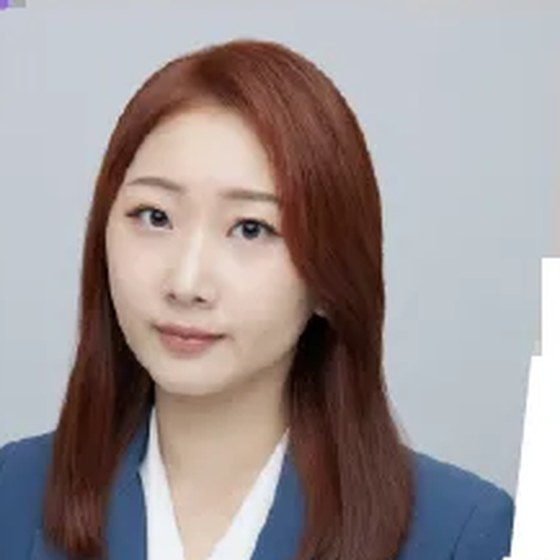
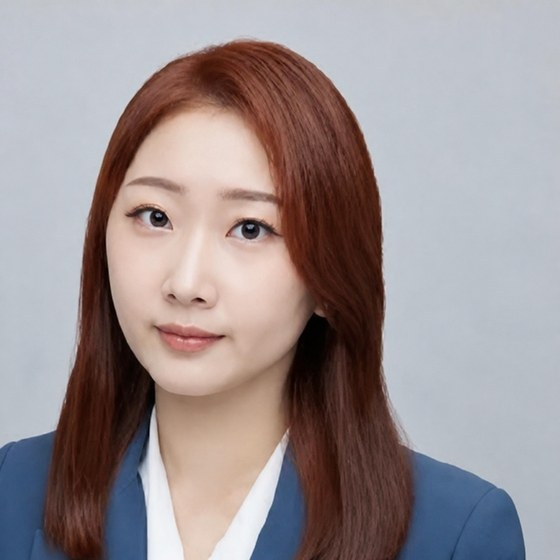
更新六位師資的形象照（棚拍新版）
王志均、郭莉芳、不落客、傅儀文、馮馮、齊克用。
來源檔名已標明對應人物，逐張與現行照片比對確認為同一人後才替換。

一併把散在 img/ 根目錄的 leefang / chike 收進 img/faculty/，
六張路徑統一並加上 ?v=3 讓瀏覽器重抓（同路徑覆蓋會吃到舊快取）。
原始 PNG 約 2MB，統一裁成 560×560 置中方形（略偏上避免切到頭）、
輸出 JPG 品質 88，與其他師資圖一致。

diff --git a/index.html b/index.html
@@ -347,7 +347,7 @@
                 <span class="role">夏綠蒂聊投資 創辦人・雲投資 共同創辦人</span>
               </div>
               <div class="member">
-                <div class="ph" style="background-image:url('img/chike.jpeg?v=2')"></div>
+                <div class="ph" style="background-image:url('img/faculty/chike.jpg?v=3')"></div>
                 <b>齊克用</b>
                 <span class="tags">股票｜期貨｜基金｜金融操作</span>
                 <span class="role">金融研訓院菁英講師・證基會專任講師</span>
@@ -359,31 +359,31 @@
                 <span class="role">《Money 錢》雜誌封面故事・個人品牌 Andyworld</span>
               </div>
               <div class="member">
-                <div class="ph" style="background-image:url('img/faculty/fuyiwen.jpg')"></div>
+                <div class="ph" style="background-image:url('img/faculty/fuyiwen.jpg?v=3')"></div>
                 <b>傅儀文</b>
                 <span class="tags">金融市場解讀｜產業趨勢研究</span>
                 <span class="role">非凡電視台新聞主播・東森財經台晨間主播</span>
               </div>
               <div class="member">
-                <div class="ph" style="background-image:url('img/leefang.jpg?v=2')"></div>
+                <div class="ph" style="background-image:url('img/faculty/leefang.jpg?v=3')"></div>
                 <b>郭莉芳</b>
                 <span class="tags">小資理財｜退休理財｜保險規劃</span>
                 <span class="role">演講與教學經驗逾 10 年・《終結零存款》作者</span>
               </div>
               <div class="member">
-                <div class="ph" style="background-image:url('img/faculty/wangchihchun.jpg')"></div>
+                <div class="ph" style="background-image:url('img/faculty/wangchihchun.jpg?v=3')"></div>
                 <b>王志均</b>
                 <span class="tags">家庭財務規劃與現金流管理</span>
                 <span class="role">王老師財富管理學院創辦人・著有 21 本理財書</span>
               </div>
               <div class="member">
-                <div class="ph" style="background-image:url('img/faculty/fengfeng.jpg')"></div>
+                <div class="ph" style="background-image:url('img/faculty/fengfeng.jpg?v=3')"></div>
                 <b>馮馮</b>
                 <span class="tags">國際金融｜資產配置</span>
                 <span class="role">金融分析師、投資課程講師・10+ 年金融實戰</span>
               </div>
               <div class="member">
-                <div class="ph" style="background-image:url('img/faculty/buluoke.jpg')"></div>
+                <div class="ph" style="background-image:url('img/faculty/buluoke.jpg?v=3')"></div>
                 <b>不落客</b>
                 <span class="tags">總經｜匯率｜ETF｜房市</span>
                 <span class="role">住展雜誌記者・Smart 智富記者</span>
